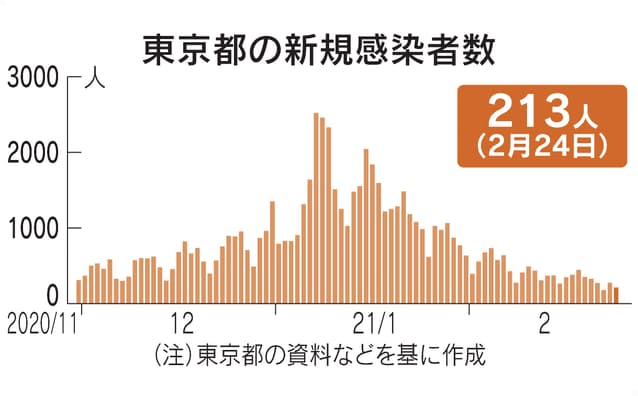
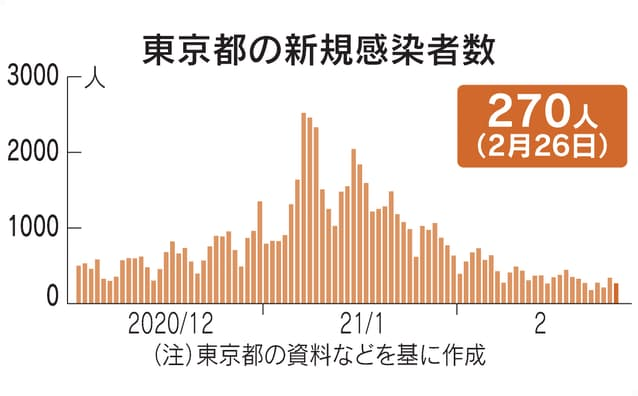
regular update

diff --git a/index.php b/index.php
@@ -103,6 +103,10 @@
 
                             <div class="line"> INFO <i class="fas fa-info-circle"></i></div>
 
+                            <li>2021年02月26日</li>
+                            <div class="info-children">
+                            <span><a href="smt.php"> スマート投資</a> 更新</span></div>
+
                             <li>2021年02月24日</li>
                             <div class="info-children"><span> <a href="https://developershirai.com/portfolio1/portfolio1.html">TEST PAGE ( HTML/CSS,JavaScript,jQuery )</a> 更新</span></div>
 
@@ -886,6 +890,28 @@
                                           href="" target="blank" rel="noopener">
                                           </a></li>
                                    <hr> -->
+                                   2021年02月26日
+                                   <li><i class="far fa-file-alt"></i><a
+                                          href="https://www.nikkei.com/article/DGXZQODG264MV0W1A220C2000000/" target="blank" rel="noopener">
+                                          東京都、新たに270人感染　新型コロナ</a></li>
+                                   <li><i class="far fa-file-alt"></i><a
+                                          href="https://www.nikkei.com/article/DGXZQOGD260TI0W1A220C2000000/" target="blank" rel="noopener">
+                                          日経平均急落、終値1202円安　4年8カ月ぶり下げ幅</a></li>
+                                   <li><i class="far fa-file-alt"></i><a
+                                          href="https://www.nikkei.com/article/DGXZQODE260IG0W1A220C2000000/" target="blank" rel="noopener">
+                                          緊急事態宣言、首都圏除く6府県で月末解除へ　政府方針</a></li>
+                                   <hr>
+                                   2021年02月25日
+                                   <li><i class="far fa-file-alt"></i><a
+                                          href="https://www.nikkei.com/article/DGXZQODG2568H0V20C21A2000000/" target="blank" rel="noopener">
+                                          東京都、新たに340人感染　新型コロナ</a></li>
+                                   <li><i class="far fa-file-alt"></i><a
+                                          href="https://www.nikkei.com/article/DGXZQOFK174FJ0X10C21A2000000/" target="blank" rel="noopener">
+                                          COCOAバグ放置　繰り返された「丸投げ」の実態</a></li>
+                                   <li><i class="far fa-file-alt"></i><a
+                                          href="https://www.nikkei.com/article/DGXZQOGN250DP0V20C21A2000000/" target="blank" rel="noopener">
+                                          モデルナ、日本向けワクチン「計画通り」　6月4000万回</a></li>
+                                   <hr>
                                    2021年02月24日
                                    <li><i class="far fa-file-alt"></i><a
                                           href="https://www.nikkei.com/article/DGXZQODG242D70U1A220C2000000/" target="blank" rel="noopener">

diff --git a/music.php b/music.php
@@ -472,8 +472,18 @@
           </div>
           <hr> -->
 
-          <!-- <div id="20210226"></div>
-          <!- She (feat. Barney Artist) [Mixed] / El Train ->
+          
+
+
+         
+
+         
+
+
+        <h2>今日の1曲<i class="fas fa-music"></i></h2>
+
+        <div id="20210226"></div>
+          <!-- <!- She (feat. Barney Artist) [Mixed] / El Train -> -->
           <div>
             <p><small> 2021年02月26日</small></p>
             <h4>She (feat. Barney Artist) [Mixed] / El Train<i class="fas fa-headphones-alt"></i></h4>
@@ -488,11 +498,19 @@
             </em2>
             <br><br>
           </div>
-          <hr> -->
+          <hr>
+        
+      
+        
+        <div class="accbox">
+          今日までの1曲<i class="fas fa-music"></i><br>
+          <input type="checkbox" id="select-music" class="cssacc" />
+          <label for="select-music">OPEN</label>
 
+          <div class="accshow">
 
-          <!-- <div id="20210225"></div>
-          <!- Moon / maeshima soshi ->
+          <div id="20210225"></div>
+          <!-- <!- Moon / maeshima soshi -> -->
           <div>
             <p><small> 2021年02月25日</small></p>
             <h4>Moon / maeshima soshi<i class="fas fa-headphones-alt"></i></h4>
@@ -507,14 +525,9 @@
             </em2>
             <br><br>
           </div>
-          <hr> -->
+          <hr>
 
-         
-
-
-        <h2>今日の1曲<i class="fas fa-music"></i></h2>
-
-        <div id="20210224"></div>
+          <div id="20210224"></div>
           <!-- <!- AKIRA SENTIMENTAL / Last Electro -> -->
           <div>
             <p><small> 2021年02月24日</small></p>
@@ -531,18 +544,6 @@
             <br><br>
           </div>
           <hr>
-
-       
-         
-
-        
-        
-        <div class="accbox">
-          今日までの1曲<i class="fas fa-music"></i><br>
-          <input type="checkbox" id="select-music" class="cssacc" />
-          <label for="select-music">OPEN</label>
-
-          <div class="accshow">
 
           <div id="20210223"></div>
           <!-- <!- Get Creative / lau.ra & Nova -> -->
